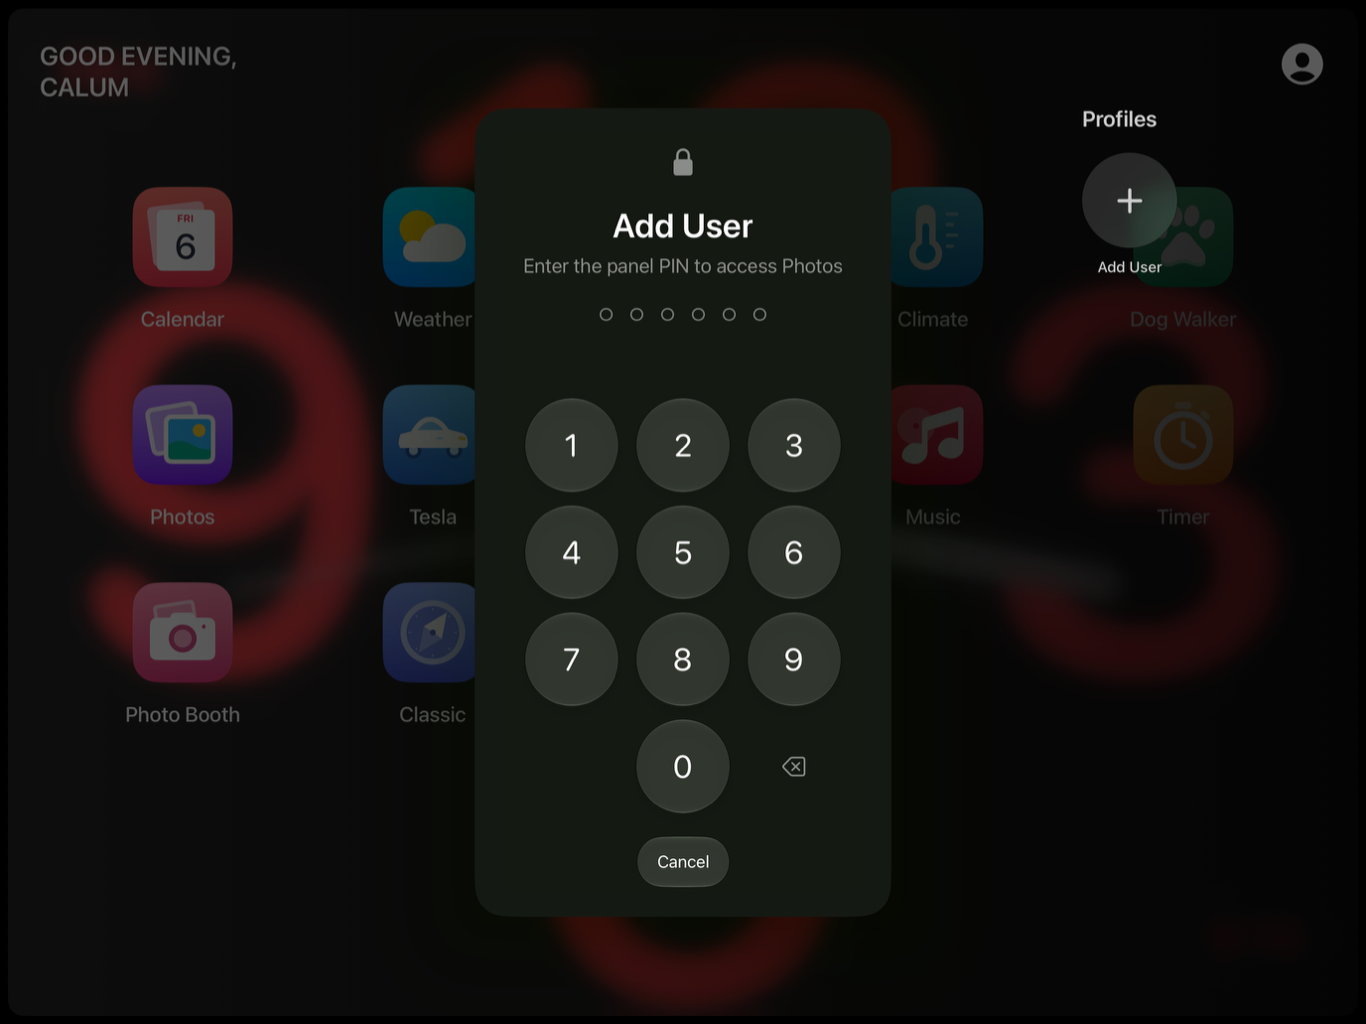
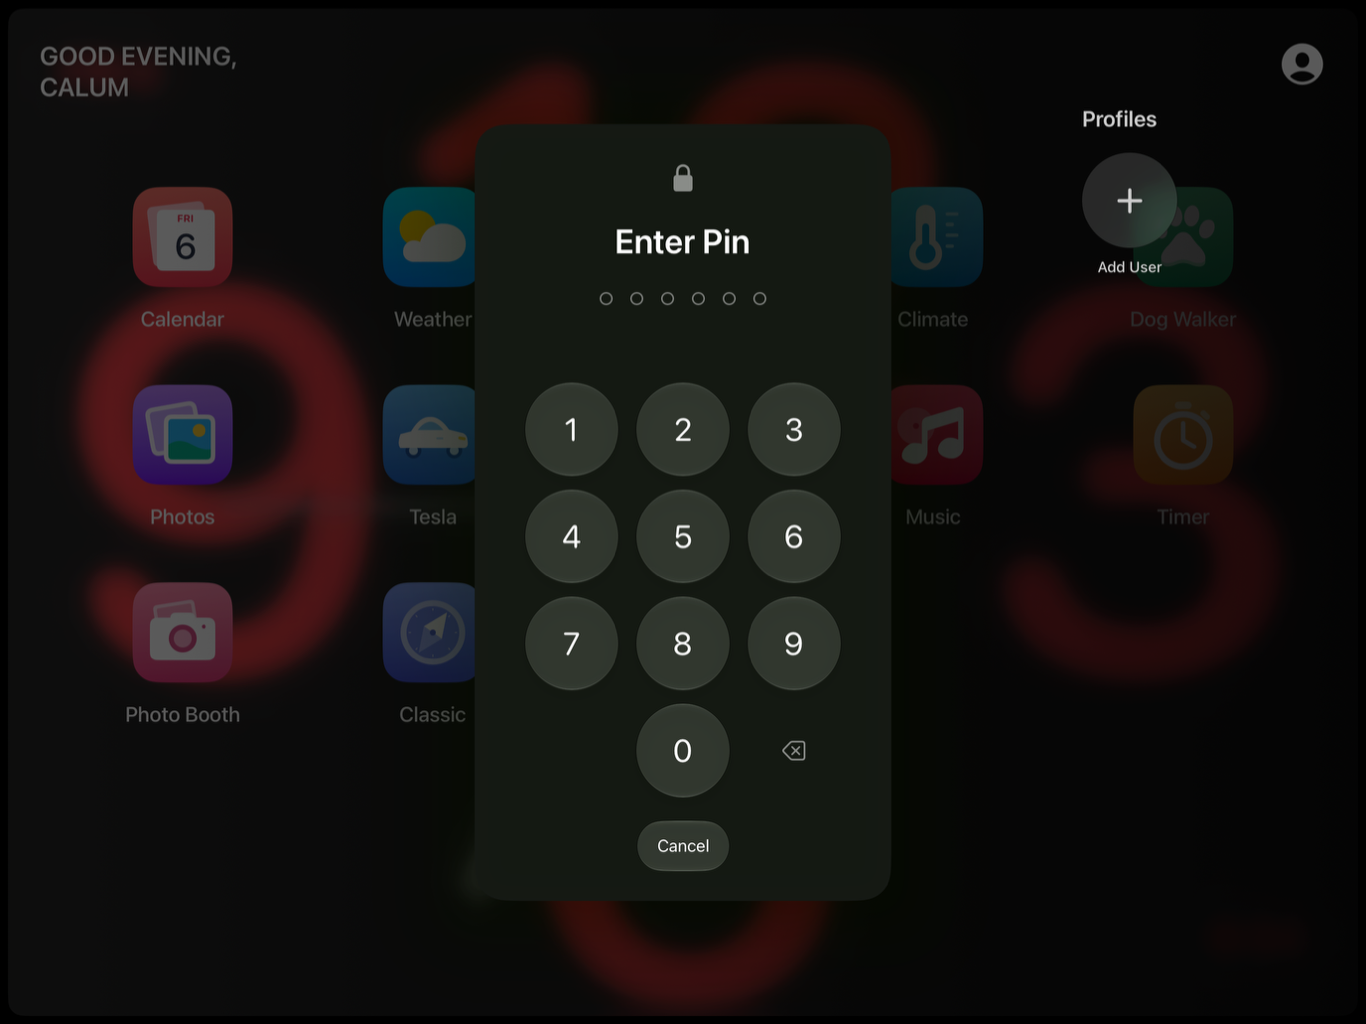
fix(panel): simplify the profile PIN heading

diff --git a/apps/apple-prototype/Sources/Apps/PanelProfileSelector.swift b/apps/apple-prototype/Sources/Apps/PanelProfileSelector.swift
@@ -218,7 +218,7 @@ private struct ProfileCreationSheet: View {
 
     @ViewBuilder private var challenge: some View {
         if let pin {
-            PanelPINEntry(title: "Add User", prompt: "Enter the panel PIN to access Photos") { entered in
+            PanelPINEntry(title: "Enter Pin") { entered in
                 do {
                     guard try await pin.verify(entered) else { return "PIN not accepted. Try again." }
                     guard !Task.isCancelled else { return nil }
